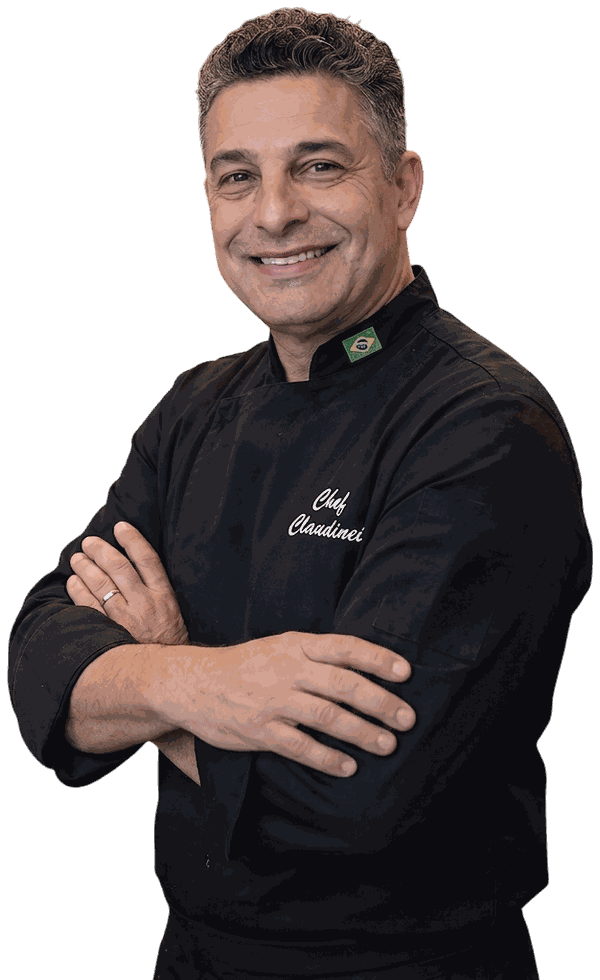
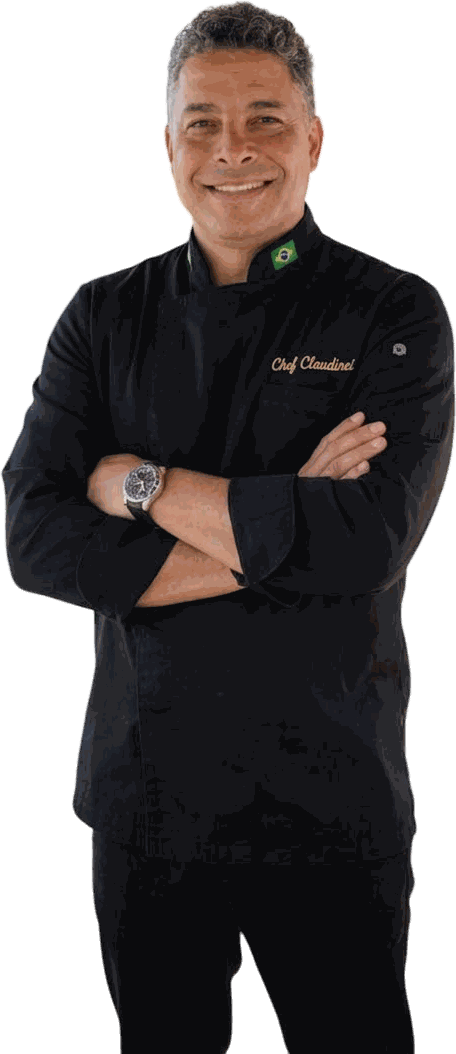
feat: replace the chef cut-out with the new full-length portrait

diff --git a/index.html b/index.html
@@ -754,9 +754,12 @@ addEventListener('DOMContentLoaded', function () {
       <div class="about-imgs">
         <div class="chef-glow" aria-hidden="true"></div>
         <picture>
-          <source type="image/webp" srcset="assets/img/chef-portrait-600.webp 600w" sizes="(max-width: 900px) 45vw, 340px">
-          <img class="chef-cutout" src="assets/img/chef-portrait.png" width="600" height="980"
-               loading="lazy" decoding="async" alt="Chef Claudinei in his black chef's coat">
+          <!-- One size, not a srcset: 456px is the subject's native width in the
+               cut-out, and the box never asks for more than ~234 CSS px. A second
+               variant would be an upscale, which is interpolation sold as detail. -->
+          <source type="image/webp" srcset="assets/img/chef-portrait.webp">
+          <img class="chef-cutout" src="assets/img/chef-portrait.png" width="456" height="1054"
+               loading="lazy" decoding="async" alt="Chef Claudinei standing with his arms crossed in his black chef's coat">
         </picture>
       </div>
     </div>
